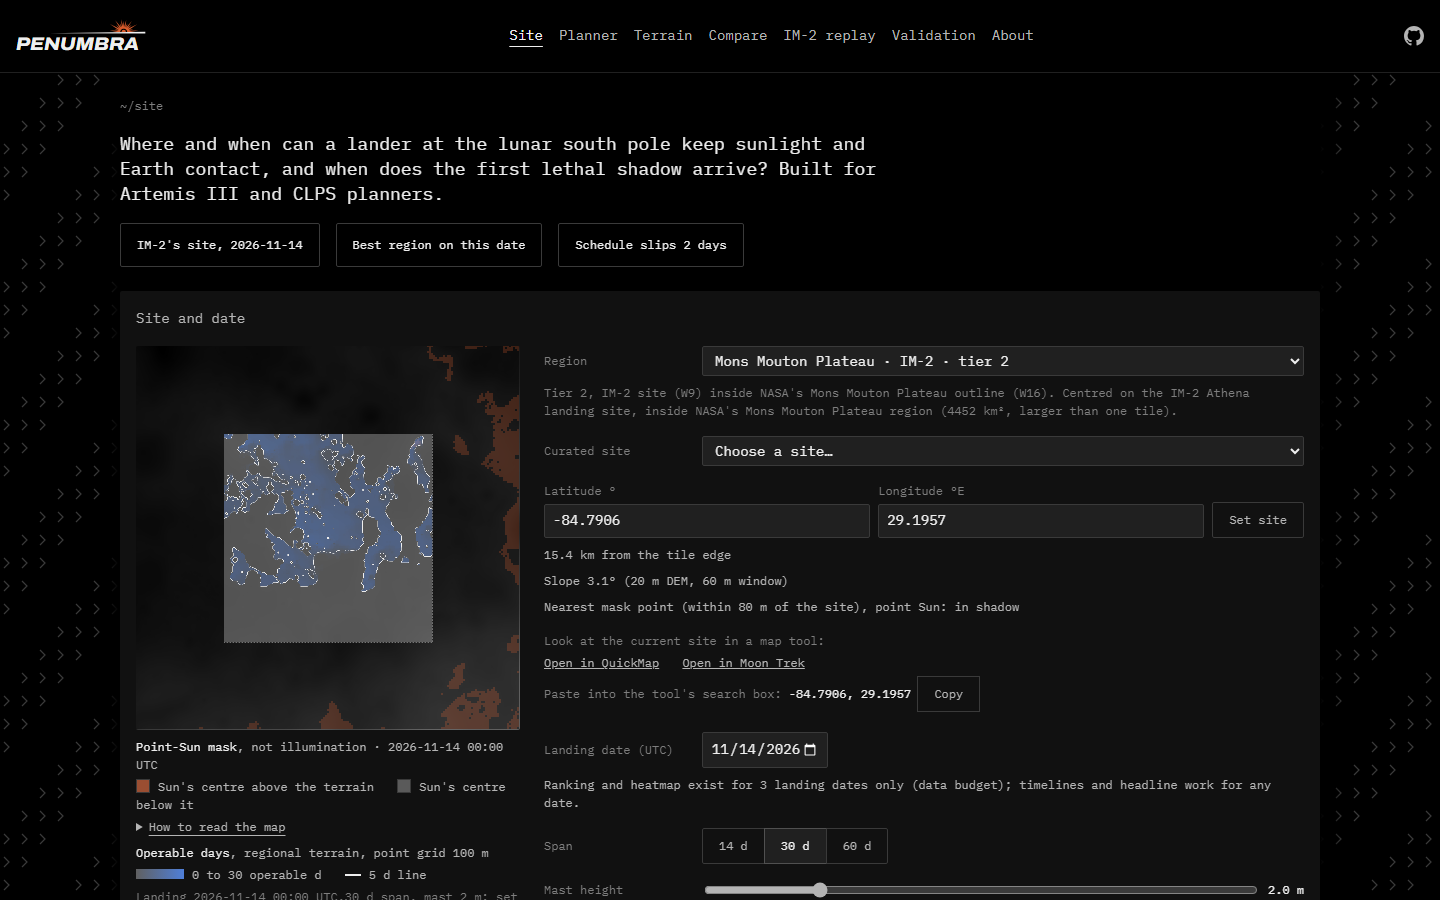
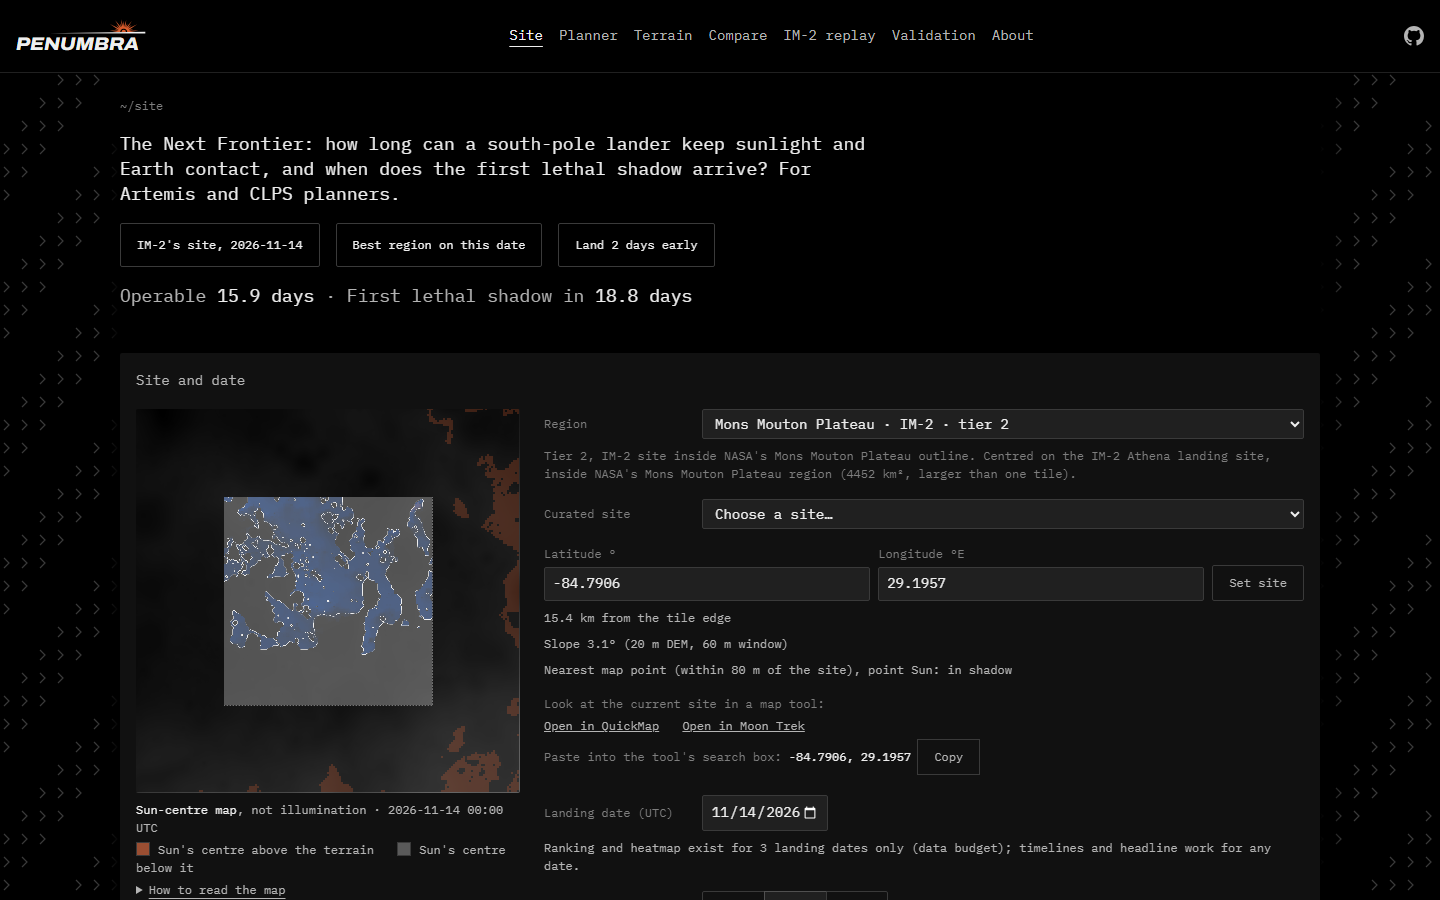
C5: retake screenshots and Play GIF on the Next Frontier deploy

diff --git a/README.md b/README.md
@@ -27,7 +27,7 @@ You plan a landing for a CLPS lander or an Artemis crew. You have a few candidat
 Two recent landers show what happens when that goes wrong. Intuitive Machines' Odysseus (IM-1) landed on 2024-02-22 at 80.1276° S, 1.4367° E (E72a, E72b) on a 12° slope, came to rest about 30° off the surface, and ended "as the sun moved out of view of the one illuminated solar panel" ([SCIENCE-SPEC](docs/SCIENCE-SPEC.md) E75a–c). Athena (IM-2) reached Mons Mouton on 2025-03-06 and "ended up on its side within a 20-meter diameter crater" ([LROC](https://lroc.im-ldi.com/images/1408)); a low Sun angle and the panels' orientation stopped charging (E73, E74). NASA's Artemis III candidate list now holds nine south-pole regions ([NTRS 20250011660](https://ntrs.nasa.gov/citations/20250011660)), and Penumbra ships all nine plus the Shackleton ridge.
 
 <p align="center">
-  <img alt="Penumbra's first screen in the live app: the hero question, three scenario buttons, and the site and date panel with the Sun mask" src="docs/screenshots/submission/hero-1440.png" width="900">
+  <img alt="Penumbra's first screen in the live app: the hero question, three scenario buttons, the operable-days and first-lethal-shadow headline, and the site and date panel with the Sun map" src="docs/screenshots/submission/hero-1440.png" width="900">
 </p>
 
 ## Three questions, one site and date
@@ -157,7 +157,7 @@ Every median in every run is under the 50 ms target. The single worst call in th
 | LROC | IM-2 landing site and crater (W6, W9); Artemis III region outlines via the QuickMap layer (W16) | https://lroc.im-ldi.com/images/1408; https://quickmap.lroc.im-ldi.com |
 | Published PGDA-based studies | V2b reference values | Barker et al. 2021, Mazarico et al. 2011 |
 
-Evidence ids (C, E, W) resolve in [`docs/EVIDENCE.md`](docs/EVIDENCE.md) and [`docs/SCIENCE-SPEC.md`](docs/SCIENCE-SPEC.md); full reference entries are in [`docs/paper/refs.yml`](docs/paper/refs.yml).
+Every number in this README comes from [`docs/submission/facts.md`](docs/submission/facts.md), which names its source. Evidence ids (C, E, W) resolve in [`docs/EVIDENCE.md`](docs/EVIDENCE.md) and [`docs/SCIENCE-SPEC.md`](docs/SCIENCE-SPEC.md); full reference entries are in [`docs/paper/refs.yml`](docs/paper/refs.yml).
 
 ## Stack, and why not the default
 
